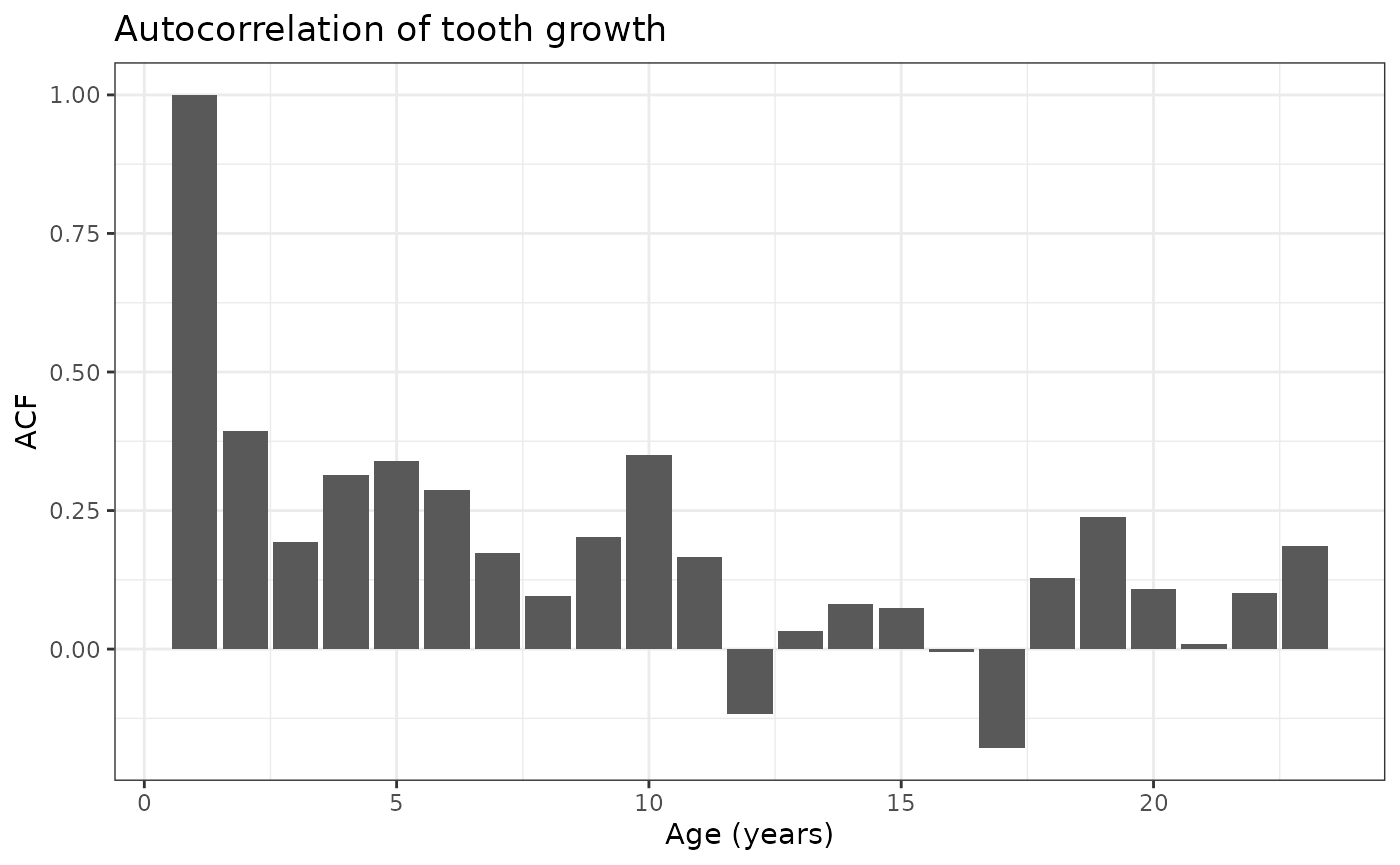
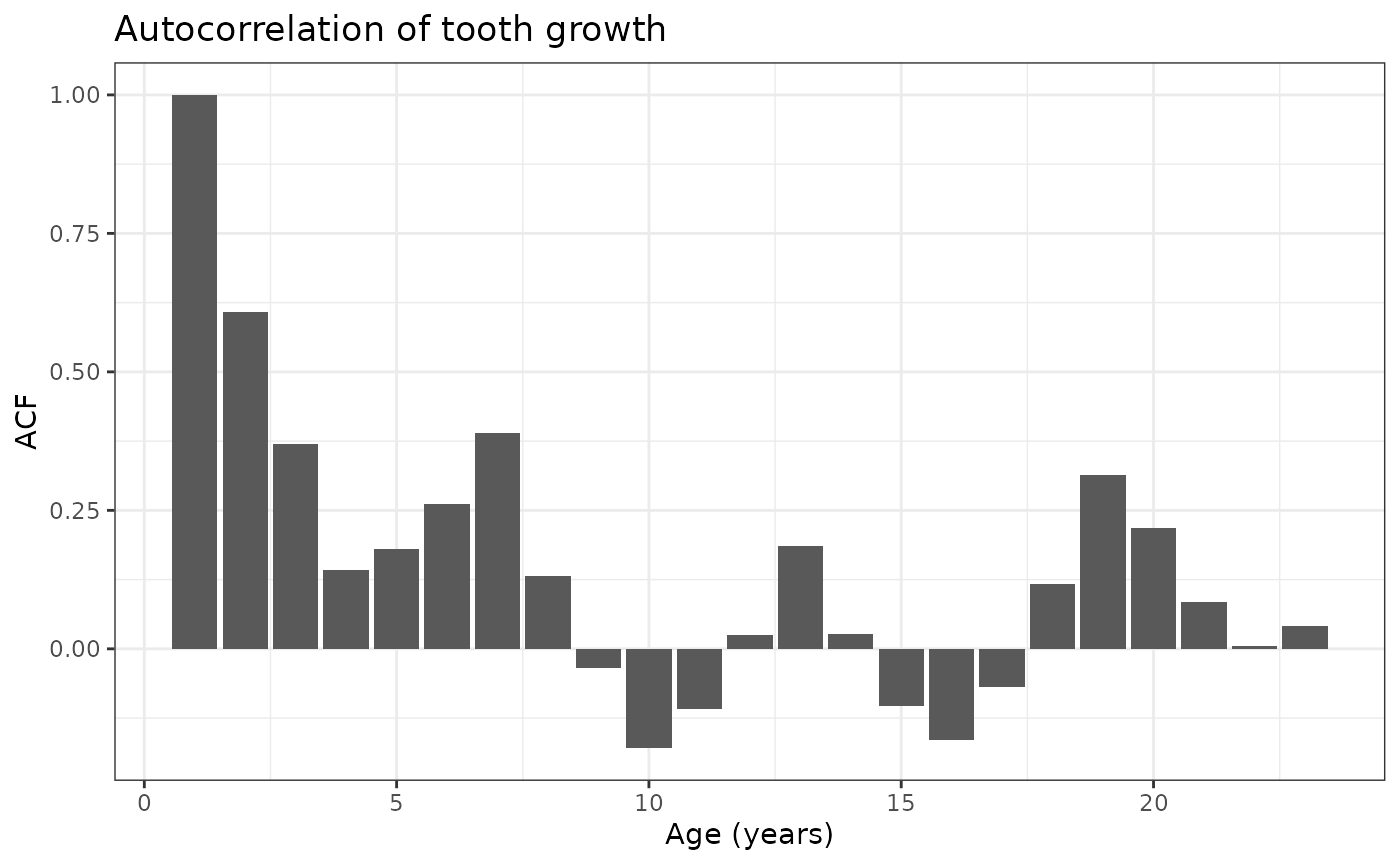
Deploying to gh-pages from @ alejandroh3005/modelLong@1a24f915d224cde5932b1bb3e4c3925f2d330038 🚀

diff --git a/articles/run_example.html b/articles/run_example.html
@@ -63,46 +63,62 @@
 
     
     
-<div class="section level2">
-<h2 id="load-data">Load data<a class="anchor" aria-label="anchor" href="#load-data"></a>
-</h2>
+<div class="section level3">
+<h3 id="load-data">Load data<a class="anchor" aria-label="anchor" href="#load-data"></a>
+</h3>
 <div class="sourceCode" id="cb1"><pre class="downlit sourceCode r">
-<code class="sourceCode R"><span><span class="co"># Clear environment</span></span>
+<code class="sourceCode R"><span><span class="co"># Setup options</span></span>
+<span><span class="fu">knitr</span><span class="fu">::</span><span class="va"><a href="https://rdrr.io/pkg/knitr/man/opts_chunk.html" class="external-link">opts_chunk</a></span><span class="op">$</span><span class="fu">set</span><span class="op">(</span>echo <span class="op">=</span> <span class="cn">FALSE</span>, warning <span class="op">=</span> <span class="cn">FALSE</span>, message <span class="op">=</span> <span class="cn">FALSE</span><span class="op">)</span></span>
+<span></span>
+<span><span class="co"># Clear environment</span></span>
 <span><span class="fu"><a href="https://rdrr.io/r/base/rm.html" class="external-link">rm</a></span><span class="op">(</span>list <span class="op">=</span> <span class="fu"><a href="https://rdrr.io/r/base/ls.html" class="external-link">ls</a></span><span class="op">(</span><span class="op">)</span><span class="op">)</span></span>
 <span></span>
 <span><span class="co"># Load relevant libraries</span></span>
-<span><span class="kw"><a href="https://rdrr.io/r/base/library.html" class="external-link">library</a></span><span class="op">(</span><span class="va"><a href="https://alejandroh3005.github.io/modelLong/">modelLong</a></span><span class="op">)</span></span>
-<span><span class="kw"><a href="https://rdrr.io/r/base/library.html" class="external-link">library</a></span><span class="op">(</span><span class="va"><a href="https://dplyr.tidyverse.org" class="external-link">dplyr</a></span><span class="op">)</span></span>
-<span><span class="kw"><a href="https://rdrr.io/r/base/library.html" class="external-link">library</a></span><span class="op">(</span><span class="va"><a href="https://ggplot2.tidyverse.org" class="external-link">ggplot2</a></span><span class="op">)</span></span>
+<span><span class="kw"><a href="https://rdrr.io/r/base/library.html" class="external-link">library</a></span><span class="op">(</span><span class="va"><a href="https://alejandroh3005.github.io/modelLong/">modelLong</a></span><span class="op">)</span></span></code></pre></div>
+<pre><code><span><span class="co">## </span></span>
+<span><span class="co">## Attaching package: 'modelLong'</span></span></code></pre>
+<pre><code><span><span class="co">## The following object is masked from 'package:graphics':</span></span>
+<span><span class="co">## </span></span>
+<span><span class="co">##     plot</span></span></code></pre>
+<pre><code><span><span class="co">## The following objects are masked from 'package:base':</span></span>
+<span><span class="co">## </span></span>
+<span><span class="co">##     plot, summary</span></span></code></pre>
+<div class="sourceCode" id="cb5"><pre class="downlit sourceCode r">
+<code class="sourceCode R"><span><span class="kw"><a href="https://rdrr.io/r/base/library.html" class="external-link">library</a></span><span class="op">(</span><span class="va"><a href="https://dplyr.tidyverse.org" class="external-link">dplyr</a></span><span class="op">)</span>    <span class="co"># Data manipulation</span></span></code></pre></div>
+<pre><code><span><span class="co">## </span></span>
+<span><span class="co">## Attaching package: 'dplyr'</span></span></code></pre>
+<pre><code><span><span class="co">## The following objects are masked from 'package:stats':</span></span>
+<span><span class="co">## </span></span>
+<span><span class="co">##     filter, lag</span></span></code></pre>
+<pre><code><span><span class="co">## The following objects are masked from 'package:base':</span></span>
+<span><span class="co">## </span></span>
+<span><span class="co">##     intersect, setdiff, setequal, union</span></span></code></pre>
+<div class="sourceCode" id="cb9"><pre class="downlit sourceCode r">
+<code class="sourceCode R"><span><span class="kw"><a href="https://rdrr.io/r/base/library.html" class="external-link">library</a></span><span class="op">(</span><span class="va"><a href="https://ggplot2.tidyverse.org" class="external-link">ggplot2</a></span><span class="op">)</span>  <span class="co"># Data visualization</span></span>
 <span></span>
 <span><span class="co"># Load example longitudinal data (must be of long format)</span></span>
-<span><span class="va">data</span> <span class="op">&lt;-</span> <span class="fu"><a href="https://rdrr.io/r/utils/read.table.html" class="external-link">read.csv</a></span><span class="op">(</span><span class="st">"../data/ortho.csv"</span><span class="op">)</span><span class="op">[</span><span class="op">-</span><span class="fl">1</span><span class="op">]</span></span>
-<span><span class="va">data_labelled</span> <span class="op">&lt;-</span> <span class="va">data</span></span>
+<span><span class="va">ortho</span> <span class="op">&lt;-</span> <span class="fu"><a href="https://rdrr.io/r/utils/read.table.html" class="external-link">read.csv</a></span><span class="op">(</span><span class="st">"../data/ortho.csv"</span><span class="op">)</span><span class="op">[</span><span class="op">-</span><span class="fl">1</span><span class="op">]</span></span>
+<span><span class="va">ortho</span> <span class="op">&lt;-</span> <span class="va">ortho</span> <span class="op"><a href="https://magrittr.tidyverse.org/reference/pipe.html" class="external-link">%&gt;%</a></span></span>
+<span>  <span class="fu">dplyr</span><span class="fu">::</span><span class="fu"><a href="https://dplyr.tidyverse.org/reference/mutate.html" class="external-link">mutate</a></span><span class="op">(</span>Subject <span class="op">=</span> <span class="fu"><a href="https://rdrr.io/r/base/factor.html" class="external-link">as.factor</a></span><span class="op">(</span><span class="va">Subject</span><span class="op">)</span><span class="op">)</span> <span class="op"><a href="https://magrittr.tidyverse.org/reference/pipe.html" class="external-link">%&gt;%</a></span>  <span class="co"># Make subject ID a factor</span></span>
+<span>  <span class="fu">dplyr</span><span class="fu">::</span><span class="fu"><a href="https://dplyr.tidyverse.org/reference/arrange.html" class="external-link">arrange</a></span><span class="op">(</span><span class="va">Subject</span><span class="op">)</span>  <span class="co"># Arrange measures by subject</span></span>
+<span><span class="va">ortho_labelled</span> <span class="op">&lt;-</span> <span class="va">ortho</span></span>
 <span></span>
-<span><span class="co"># Rename variables</span></span>
-<span><span class="va">data_labelled</span> <span class="op">&lt;-</span> <span class="va">data</span> <span class="op"><a href="https://magrittr.tidyverse.org/reference/pipe.html" class="external-link">%&gt;%</a></span> <span class="fu">dplyr</span><span class="fu">::</span><span class="fu"><a href="https://dplyr.tidyverse.org/reference/rename.html" class="external-link">rename</a></span><span class="op">(</span><span class="st">"Distance"</span> <span class="op">=</span> <span class="va">distance</span>, <span class="st">"Age"</span> <span class="op">=</span> <span class="va">age</span><span class="op">)</span></span>
+<span><span class="co"># Rename variables for (pretty printing) </span></span>
+<span><span class="va">ortho_labelled</span> <span class="op">&lt;-</span> <span class="va">ortho</span> <span class="op"><a href="https://magrittr.tidyverse.org/reference/pipe.html" class="external-link">%&gt;%</a></span> <span class="fu">dplyr</span><span class="fu">::</span><span class="fu"><a href="https://dplyr.tidyverse.org/reference/rename.html" class="external-link">rename</a></span><span class="op">(</span><span class="st">"Distance"</span> <span class="op">=</span> <span class="va">distance</span>, <span class="st">"Age"</span> <span class="op">=</span> <span class="va">age</span><span class="op">)</span></span>
 <span></span>
 <span><span class="co"># Preview data</span></span>
-<span><span class="va">data_labelled</span><span class="op">[</span><span class="fu"><a href="https://rdrr.io/r/base/sample.html" class="external-link">sample</a></span><span class="op">(</span><span class="fu"><a href="https://rdrr.io/r/base/nrow.html" class="external-link">nrow</a></span><span class="op">(</span><span class="va">data_labelled</span><span class="op">)</span>, <span class="fl">5</span><span class="op">)</span>,<span class="op">]</span></span></code></pre></div>
+<span><span class="va">ortho_labelled</span><span class="op">[</span><span class="fu"><a href="https://rdrr.io/r/base/sample.html" class="external-link">sample</a></span><span class="op">(</span><span class="fu"><a href="https://rdrr.io/r/base/nrow.html" class="external-link">nrow</a></span><span class="op">(</span><span class="va">ortho_labelled</span><span class="op">)</span>, <span class="fl">5</span><span class="op">)</span>,<span class="op">]</span></span></code></pre></div>
 <pre><code><span><span class="co">##     Subject    Sex Distance Age</span></span>
-<span><span class="co">## 151     M16   Male     26.1  18</span></span>
-<span><span class="co">## 63      M09   Male     31.0  12</span></span>
-<span><span class="co">## 102     F05 Female     23.5  14</span></span>
-<span><span class="co">## 111     M03   Male     27.9  16</span></span>
-<span><span class="co">## 47      F04 Female     24.5  10</span></span></code></pre>
+<span><span class="co">## 151     M15   Male     23.0   8</span></span>
+<span><span class="co">## 63      F11 Female     28.0  12</span></span>
+<span><span class="co">## 102     M06   Male     28.1  18</span></span>
+<span><span class="co">## 111     M08   Male     24.5  12</span></span>
+<span><span class="co">## 47      F08 Female     24.8  16</span></span></code></pre>
 </div>
-<div class="section level2">
-<h2 id="data-summary">Data Summary<a class="anchor" aria-label="anchor" href="#data-summary"></a>
-</h2>
+<div class="section level3">
+<h3 id="data-summary">Data Summary<a class="anchor" aria-label="anchor" href="#data-summary"></a>
+</h3>
 <p>Print a summary table of the orthodontist data.</p>
-<div class="sourceCode" id="cb3"><pre class="downlit sourceCode r">
-<code class="sourceCode R"><span><span class="co"># Data summary, stratified by Sex</span></span>
-<span><span class="va">summary_res</span> <span class="op">&lt;-</span> <span class="fu">modelLong</span><span class="fu">::</span><span class="fu"><a href="../reference/summary.html">summary</a></span><span class="op">(</span></span>
-<span>    data <span class="op">=</span> <span class="va">data_labelled</span><span class="op">[</span><span class="op">-</span><span class="fl">1</span><span class="op">]</span>, <span class="co"># Ignore Subject ID</span></span>
-<span>    group_var <span class="op">=</span> <span class="st">"Sex"</span>,</span>
-<span>    type <span class="op">=</span> <span class="fu"><a href="https://rdrr.io/r/base/list.html" class="external-link">list</a></span><span class="op">(</span><span class="va">Age</span> <span class="op">~</span> <span class="st">"continuous"</span><span class="op">)</span><span class="op">)</span></span>
-<span></span>
-<span><span class="va">summary_res</span><span class="op">$</span><span class="va">table1</span> </span></code></pre></div>
 <div id="dfieexombw" style="padding-left:0px;padding-right:0px;padding-top:10px;padding-bottom:10px;overflow-x:auto;overflow-y:auto;width:auto;height:auto;">
 <style>#dfieexombw table {
   font-family: system-ui, 'Segoe UI', Roboto, Helvetica, Arial, sans-serif, 'Apple Color Emoji', 'Segoe UI Emoji', 'Segoe UI Symbol', 'Noto Color Emoji';
@@ -597,30 +613,49 @@ N = 96</span><span class="gt_footnote_marks" style="white-space:nowrap;font-styl
 </table>
 </div>
 </div>
-<div class="section level2">
-<h2 id="data-visualization">Data Visualization<a class="anchor" aria-label="anchor" href="#data-visualization"></a>
-</h2>
+<div class="section level3">
+<h3 id="data-visualization">Data Visualization<a class="anchor" aria-label="anchor" href="#data-visualization"></a>
+</h3>
 <p>Plot repeated measures of adolescent tooth growth over time.</p>
-<div class="sourceCode" id="cb4"><pre class="downlit sourceCode r">
-<code class="sourceCode R"><span><span class="co"># Create plot of repeated measures</span></span>
-<span><span class="va">plot_res</span> <span class="op">&lt;-</span> <span class="fu">modelLong</span><span class="fu">::</span><span class="fu"><a href="../reference/plot.html">plot</a></span><span class="op">(</span></span>
-<span>  data <span class="op">=</span> <span class="va">data</span>, </span>
-<span>  outcome <span class="op">=</span> <span class="st">"distance"</span>, </span>
-<span>  time <span class="op">=</span> <span class="st">"age"</span>, </span>
-<span>  id <span class="op">=</span> <span class="st">"Subject"</span>,</span>
-<span>  group_var <span class="op">=</span> <span class="st">"Sex"</span><span class="op">)</span></span>
-<span></span>
-<span><span class="va">plot_res</span><span class="op">$</span><span class="va">data_plot</span> <span class="op">+</span></span>
-<span>  <span class="co"># Adjust labels and x-axis</span></span>
-<span>  <span class="fu"><a href="https://ggplot2.tidyverse.org/reference/labs.html" class="external-link">labs</a></span><span class="op">(</span>title <span class="op">=</span> <span class="st">"Repeated measures of tooth growth"</span><span class="op">)</span> <span class="op">+</span></span>
-<span>  <span class="fu"><a href="https://ggplot2.tidyverse.org/reference/labs.html" class="external-link">xlab</a></span><span class="op">(</span><span class="st">"Age (years)"</span><span class="op">)</span> <span class="op">+</span> <span class="fu"><a href="https://ggplot2.tidyverse.org/reference/labs.html" class="external-link">ylab</a></span><span class="op">(</span><span class="st">"Distance (mm)"</span><span class="op">)</span> <span class="op">+</span></span>
-<span>  <span class="fu"><a href="https://ggplot2.tidyverse.org/reference/scale_continuous.html" class="external-link">scale_x_continuous</a></span><span class="op">(</span>breaks <span class="op">=</span> <span class="fu"><a href="https://rdrr.io/r/base/seq.html" class="external-link">seq</a></span><span class="op">(</span><span class="fl">8</span>,<span class="fl">18</span>,<span class="fl">2</span><span class="op">)</span><span class="op">)</span></span></code></pre></div>
-<p><img src="run_example_files/figure-html/plots-1.png" width="700"></p>
-<div class="sourceCode" id="cb5"><pre class="downlit sourceCode r">
-<code class="sourceCode R"><span><span class="va">plot_res</span><span class="op">$</span><span class="va">acf_plot</span> <span class="op">+</span></span>
-<span>  <span class="co"># Adjust labels and x-axis</span></span>
-<span>  <span class="fu"><a href="https://ggplot2.tidyverse.org/reference/labs.html" class="external-link">labs</a></span><span class="op">(</span>title <span class="op">=</span> <span class="st">"Autocorrelation of tooth growth"</span><span class="op">)</span> <span class="op">+</span> <span class="fu"><a href="https://ggplot2.tidyverse.org/reference/labs.html" class="external-link">xlab</a></span><span class="op">(</span><span class="st">"Age (years)"</span><span class="op">)</span></span></code></pre></div>
-<p><img src="run_example_files/figure-html/plots-2.png" width="700"></p>
+<p><img src="run_example_files/figure-html/plots-1.png" width="700"><img src="run_example_files/figure-html/plots-2.png" width="700"></p>
+</div>
+<div class="section level3">
+<h3 id="data-modeling">Data Modeling<a class="anchor" aria-label="anchor" href="#data-modeling"></a>
+</h3>
+</div>
+<div class="section level2">
+<h2 id="marginal-effects-with-gee">Marginal effects with GEE<a class="anchor" aria-label="anchor" href="#marginal-effects-with-gee"></a>
+</h2>
+<p>Estimate the mean tooth growth associated with each sex population.
+This is suitable for a linear regression model fit with generalized
+estimating equations to account for the fact that our data is repeated
+measures over time; ignoring clusters and time may bias our
+estimates.</p>
+<pre><code><span><span class="co">## (Intercept)         age     SexMale </span></span>
+<span><span class="co">##  17.5513997   0.4263492   2.7373106</span></span></code></pre>
+<pre><code><span><span class="co">## </span></span>
+<span><span class="co">## Call:</span></span>
+<span><span class="co">## geepack::geeglm(formula = formula, family = family, data = data, </span></span>
+<span><span class="co">##     id = id, corstr = corstr)</span></span>
+<span><span class="co">## </span></span>
+<span><span class="co">## Coefficients:</span></span>
+<span><span class="co">## (Intercept)         age     SexMale </span></span>
+<span><span class="co">##  17.5513997   0.4263492   2.7373106 </span></span>
+<span><span class="co">## </span></span>
+<span><span class="co">## Degrees of Freedom: 162 Total (i.e. Null);  159 Residual</span></span>
+<span><span class="co">## </span></span>
+<span><span class="co">## Scale Link:                   identity</span></span>
+<span><span class="co">## Estimated Scale Parameters:  [1] 5.67822</span></span>
+<span><span class="co">## </span></span>
+<span><span class="co">## Correlation:  Structure = independence  </span></span>
+<span><span class="co">## Number of clusters:   27   Maximum cluster size: 6</span></span></code></pre>
+</div>
+<div class="section level2">
+<h2 id="conditional-effects-with-glmm">Conditional effects with GLMM<a class="anchor" aria-label="anchor" href="#conditional-effects-with-glmm"></a>
+</h2>
+<p>Estimate the mean tooth growth associated with each individual. This
+is well modeled by a linear regression model fit with mixed-effects to
+account for the temporal and clustered structure of the data.</p>
 </div>
   </main><aside class="col-md-3"><nav id="toc" aria-label="Table of contents"><h2>On this page</h2>
     </nav></aside>
